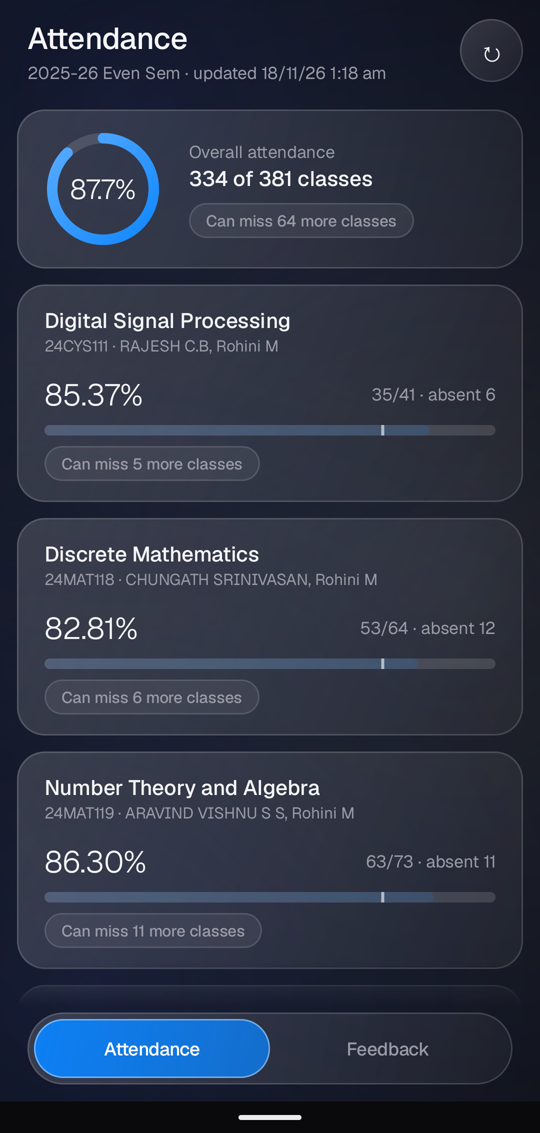
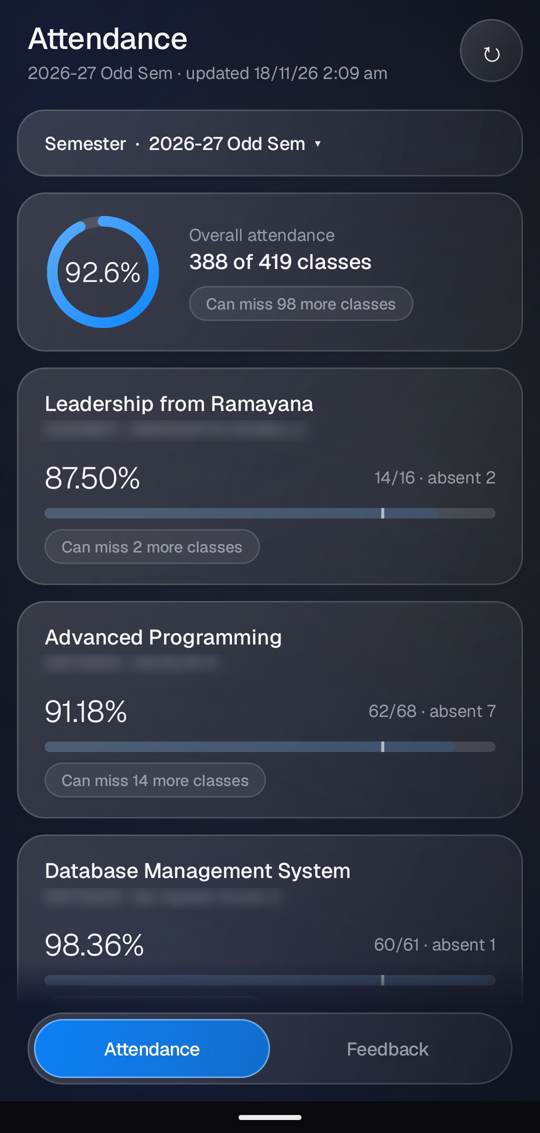
Add a semester picker; open on the current semester like the official app
- Attendance opens on the current semester (worked out from the date) instead of
  the portal's old default, and a Semester card switches to any earlier one
- Future terms are hidden; a pick lasts for the session only
- A semester with no attendance shows a clear empty state
- Version 1.1; rebuilt APK in dist/, new screenshots (faculty names blurred)

diff --git a/src/com/ash/attendance/MainActivity.java b/src/com/ash/attendance/MainActivity.java
@@ -51,9 +51,10 @@ public class MainActivity extends Activity {
     static final String EXTRACT_JS = "(function(){var rows=[];"
             + "document.querySelectorAll('tr').forEach(function(tr){var c=tr.children;"
             + "if(c.length<9)return;rows.push([].map.call(c,function(x){return (x.innerText||'').trim();}));});"
-            + "var term='';var s=document.querySelector('select');"
-            + "if(s&&s.selectedIndex>=0&&s.options[s.selectedIndex])term=s.options[s.selectedIndex].text.trim();"
-            + "return JSON.stringify({term:term,rows:rows});})()";
+            + "var s=document.querySelector('select'),terms=[],ids=[],sel=-1;"
+            + "if(s){terms=[].map.call(s.options,function(o){return o.text.trim();});"
+            + "ids=[].map.call(s.options,function(o){return o.value;});sel=s.selectedIndex;}"
+            + "return JSON.stringify({term:terms[sel]||'',terms:terms,ids:ids,sel:sel,rows:rows});})()";
 
     WebView web;
     ScrollView scroll;
@@ -70,6 +71,9 @@ public class MainActivity extends Activity {
     int autoRating;      // 0 = autofill off, else 1..5
     String lastQid;      // loop guard: question id we last tried to save
     int pollTries;
+    boolean termSwitched;   // already navigated to the wanted semester during this refresh
+    JSONObject lastRead;    // last successful read of the page, used if the wanted semester never shows
+    String chosenTerm, chosenId; // semester picked this session only; every launch starts on the current one
 
     static final boolean DEBUG_WEB = false;
     static final String[] LISTS = {"https://" + HOST + "/client/course-feedback-list",
@@ -560,7 +564,11 @@ public class MainActivity extends Activity {
     void refresh() {
         spinner.setVisibility(View.VISIBLE);
         pollTries = 0;
-        web.loadUrl(URL);
+        termSwitched = false;
+        lastRead = null;
+        String id = chosenId != null ? chosenId
+                : currentTermName().equals(prefs.getString("defTermName", null)) ? prefs.getString("defTermId", null) : null;
+        web.loadUrl(id == null ? URL : URL + "?academic_term_id=" + id);
     }
 
     /** Called when any page finishes loading in the WebView. */
@@ -607,6 +615,52 @@ public class MainActivity extends Activity {
         }
     }
 
+    /** The portal lists terms newest first, including future ones, and opens on an old one. */
+    String currentTermName() {
+        java.util.Calendar c = java.util.Calendar.getInstance();
+        int y = c.get(java.util.Calendar.YEAR), m = c.get(java.util.Calendar.MONTH) + 1;
+        int start = m >= 7 ? y : y - 1;                       // Jul-Dec: odd semester, Jan-Jun: even
+        return start + "-" + String.format("%02d", (start + 1) % 100) + (m >= 7 ? " Odd Sem" : " Even Sem");
+    }
+
+    /** First year of the current academic year, to hide semesters that haven't started. */
+    int currentStartYear() {
+        java.util.Calendar c = java.util.Calendar.getInstance();
+        return c.get(java.util.Calendar.MONTH) + 1 >= 7 ? c.get(java.util.Calendar.YEAR) : c.get(java.util.Calendar.YEAR) - 1;
+    }
+
+    /** Index of the semester to show: the one picked this session, else the current one, else -1 (leave it). */
+    int wantedTerm(JSONArray names) {
+        if (names == null) return -1;
+        String now = currentTermName();
+        if (chosenTerm != null) for (int i = 0; i < names.length(); i++) if (names.optString(i).equals(chosenTerm)) return i;
+        for (int i = 0; i < names.length(); i++) if (names.optString(i).equals(now)) return i;
+        return -1;
+    }
+
+    void pickAttTerm(final JSONArray names, final JSONArray ids) {
+        final java.util.ArrayList<Integer> keep = new java.util.ArrayList<>();
+        for (int i = 0; i < names.length(); i++) {
+            java.util.regex.Matcher m = java.util.regex.Pattern.compile("^(\\d{4})").matcher(names.optString(i));
+            if (!m.find() || Integer.parseInt(m.group(1)) <= currentStartYear()) keep.add(i);   // hide future terms
+        }
+        String[] items = new String[keep.size()];
+        for (int i = 0; i < items.length; i++) items[i] = names.optString(keep.get(i));
+        new android.app.AlertDialog.Builder(this).setTitle("Semester").setItems(items, (d, which) -> {
+            int i = keep.get(which);
+            chosenTerm = names.optString(i);
+            chosenId = ids.optString(i);
+            spinner.setVisibility(View.VISIBLE);
+            status.setText("Loading " + names.optString(i) + "…");
+            polling = true;
+            pollTries = 0;
+            termSwitched = true;
+            lastRead = null;
+            web.loadUrl(URL + "?academic_term_id=" + ids.optString(i));
+            ui.postDelayed(this::poll, 1200);
+        }).show();
+    }
+
     /** The table may be filled in after load, so retry for a few seconds. */
     void poll() {
         String url = web.getUrl();
@@ -615,21 +669,40 @@ public class MainActivity extends Activity {
             try {
                 String json = (String) new JSONTokener(value).nextValue();
                 JSONObject o = new JSONObject(json);
-                if (parse(o.getJSONArray("rows")).length() > 0) {
-                    prefs.edit().putString("data", json).putLong("time", System.currentTimeMillis()).apply();
-                    web.setVisibility(View.INVISIBLE);
-                    spinner.setVisibility(View.GONE);
-                    polling = false;
-                    render(o, System.currentTimeMillis(), false);
-                    return;
+                JSONArray names = o.optJSONArray("terms"), ids = o.optJSONArray("ids");
+                int want = wantedTerm(names), sel = o.optInt("sel", -1);
+                if (want >= 0 && names.optString(want).equals(currentTermName()))   // remember its id to skip a hop next time
+                    prefs.edit().putString("defTermName", names.optString(want)).putString("defTermId", ids.optString(want)).apply();
+                if (want >= 0 && sel != want) {
+                    // The page opened on another semester: go to the one we want, then read it.
+                    if (!termSwitched) {
+                        termSwitched = true;
+                        web.loadUrl(URL + "?academic_term_id=" + ids.optString(want));
+                    }
+                } else {
+                    lastRead = o;
+                    if (parse(o.getJSONArray("rows")).length() > 0) {
+                        if (o.optString("term").equals(currentTermName())) // the saved copy is always the current semester
+                            prefs.edit().putString("data", json).putLong("time", System.currentTimeMillis()).apply();
+                        web.setVisibility(View.INVISIBLE);
+                        spinner.setVisibility(View.GONE);
+                        polling = false;
+                        render(o, System.currentTimeMillis(), false);
+                        return;
+                    }
                 }
             } catch (Exception ignored) { }
-            if (++pollTries < 12) ui.postDelayed(this::poll, 1000);
+            if (++pollTries < 14) ui.postDelayed(this::poll, 1000);
             else {
                 polling = false;
                 spinner.setVisibility(View.GONE);
-                web.setVisibility(View.VISIBLE); // couldn't find the table: show the page itself
-                status.setText("Couldn't read the table; showing the portal page");
+                if (lastRead != null && lastRead.optJSONArray("terms") != null) { // page works, this semester just has no rows
+                    web.setVisibility(View.INVISIBLE);
+                    render(lastRead, System.currentTimeMillis(), false);
+                } else {
+                    web.setVisibility(View.VISIBLE); // couldn't find the table: show the page itself
+                    status.setText("Couldn't read the table; showing the portal page");
+                }
             }
         });
     }
@@ -638,7 +711,9 @@ public class MainActivity extends Activity {
         try {
             String json = prefs.getString("data", null);
             if (json == null) return false;
-            render(new JSONObject(json), prefs.getLong("time", 0), true);
+            JSONObject j = new JSONObject(json);
+            if (!j.has("terms")) return false;
+            render(j, prefs.getLong("time", 0), true);
             return true;
         } catch (Exception e) { return false; }
     }
@@ -683,6 +758,24 @@ public class MainActivity extends Activity {
             String term = data.optString("term", "");
             status.setText((term.isEmpty() ? "" : term + " · ") + (cached ? "saved " : "updated ")
                     + DateFormat.getDateTimeInstance(DateFormat.SHORT, DateFormat.SHORT).format(new Date(time)));
+
+            final JSONArray tn = data.optJSONArray("terms"), ti = data.optJSONArray("ids");
+            if (tn != null && tn.length() > 1) {
+                LinearLayout t = card();
+                t.addView(text("Semester  \u00B7  " + term + "  \u25BE", 14, TXT, true));
+                Glass.pressable(t);
+                t.setOnClickListener(v -> pickAttTerm(tn, ti));
+                list.addView(t);
+            }
+            if (courses.length() == 0) {
+                status.setText((term.isEmpty() ? "" : term + " \u00B7 ") + "no attendance recorded yet");
+                LinearLayout none = card();
+                none.addView(text("Nothing has been recorded for this semester yet.", 14, DIM, false));
+                none.addView(text("Pick another semester above.", 13, DIM, false));
+                list.addView(none);
+                Glass.enter(list);
+                return;
+            }
 
             double overall = T == 0 ? 0 : 100.0 * A / T;
             LinearLayout head = card();

diff --git a/README.md b/README.md
@@ -2,12 +2,12 @@
 
 An Android app for the Amrita student portal. It shows your attendance without the sideways scrolling, and it fills in the course feedback forms so you don't spend an evening tapping through them.
 
-| | | | |
-|---|---|---|---|
-| ![Attendance, dark](docs/screenshots/attendance-dark.png) | ![Attendance, light](docs/screenshots/attendance-light.png) | ![Feedback, dark](docs/screenshots/feedback-dark.png) | ![Feedback, light](docs/screenshots/feedback-light.png) |
+| | | | | |
+|---|---|---|---|---|
+| ![Attendance, dark](docs/screenshots/attendance-dark.png) | ![Attendance, light](docs/screenshots/attendance-light.png) | ![Semester picker](docs/screenshots/attendance-semester-picker.png) | ![Feedback, dark](docs/screenshots/feedback-dark.png) | ![Feedback, light](docs/screenshots/feedback-light.png) |
 
-**[Download the APK](dist/amrita-attendance.apk)** (Android 7.0 or newer, 38 KB). Also on the [Releases page](../../releases).
[1 lines of base64/hex data omitted]
+**[Download the APK](dist/amrita-attendance.apk)** (version 1.1, Android 7.0 or newer, 38 KB). Also on the [Releases page](../../releases).
[1 lines of base64/hex data omitted]
 
 ## Why I built this
 
@@ -33,6 +33,7 @@ Attendance
 - One card per course: percentage, classes attended out of total, absences.
 - A ring for overall attendance, and a tick at 75% on every bar.
 - Tells you "Can miss 5 more classes" or "Attend next 3 classes to reach 75%". It uses present plus duty leave over total, which is how the portal gets its own percentage (I checked all eight courses).
+- Opens on the current semester, like the official app, and a picker switches to any earlier one. A pick lasts until you close the app, so the next launch starts on the current semester again.
 - Keeps the last numbers, so it opens instantly with what it saw last time.
 
 Feedback
@@ -75,7 +76,7 @@ Three other things broke before it worked at all:
 
 ## What's tested, and what isn't
 
-Checked on a real phone against the real portal: sign-in, the attendance numbers, both feedback lists, and one-tap fill on a real course, where I tapped the last Save & Next and Finish myself.
+Checked on a real phone against the real portal: sign-in, the attendance numbers (the percentages match the official app's), the semester picker including a semester with no data yet, both feedback lists, and one-tap fill on a real course, where I tapped the last Save & Next and Finish myself.
 
 Not seen working yet: tapping a pending card to open its form (the fix above is in, I haven't watched it succeed), a fully hands-free run with the switch on, the wait for an OTP at the end of a form, and everything on the class TLP forms. Nothing was pending when I wrote them, so the TLP side is written against a completed form I could only look at. I don't know what the end-of-form OTP screen looks like either. The app looks for a visible text box with "otp" in its name, id or placeholder, and if yours is called something else it will miss it. Whether it all survives a real run, we'll see.
 
